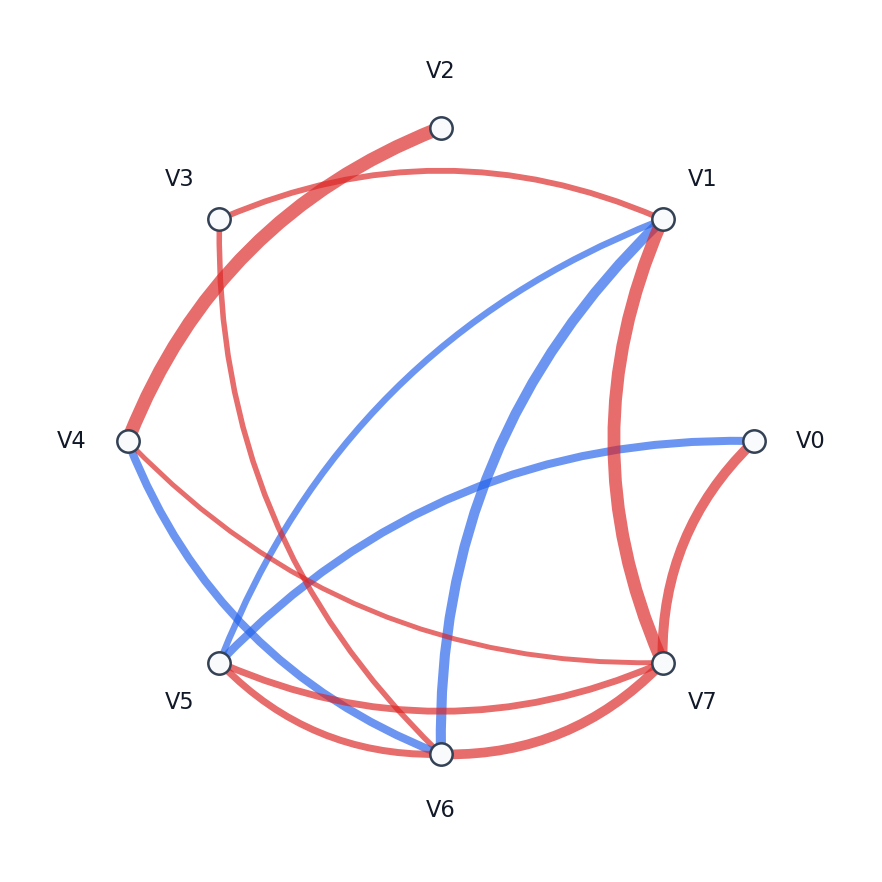
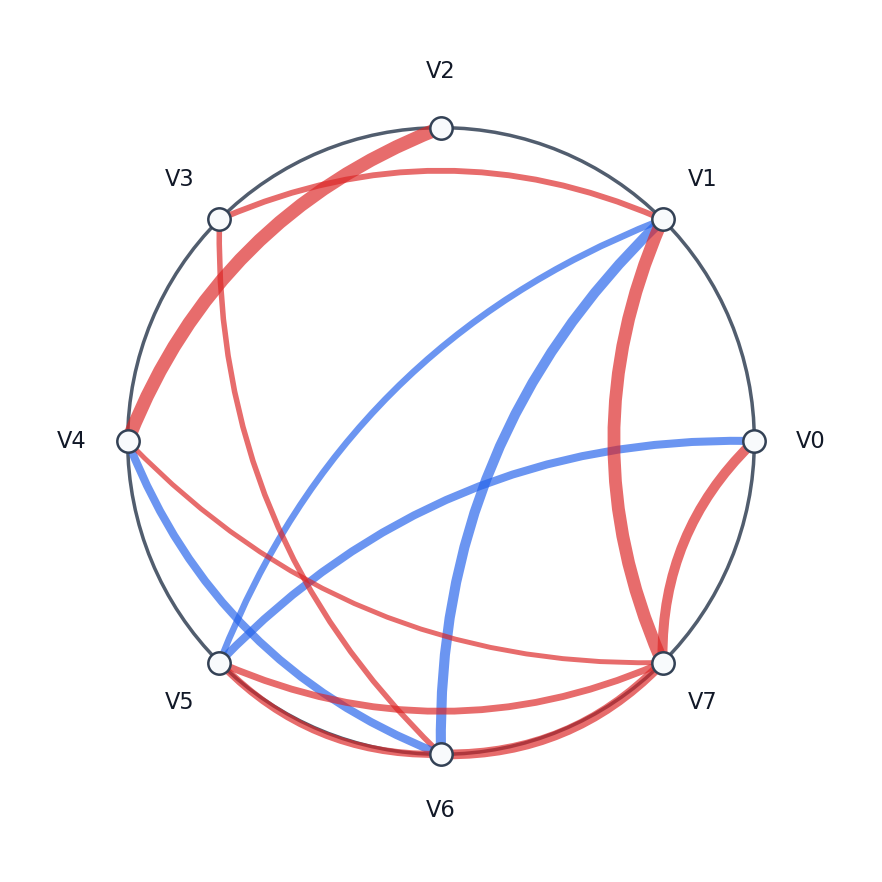
Add covariance graph gallery view

diff --git a/src/covviz/plots/covariance_graph.py b/src/covviz/plots/covariance_graph.py
@@ -1,0 +1,102 @@
+"""Covariance graph visualization inspired by sparse covariance demos."""
+
+from __future__ import annotations
+
+from collections.abc import Sequence
+
+import matplotlib.pyplot as plt
+import networkx as nx
+import numpy as np
+
+
+def plot_covariance_graph(
+    matrix: np.ndarray,
+    *,
+    ax=None,
+    labels: Sequence[str] | None = None,
+    threshold: float = 0.0,
+    layout: str = "spring",
+    seed: int = 42,
+    k: float | None = 0.7,
+    node_size: int = 36,
+    node_color: str = "#2563eb",
+    positive_edge_color: str = "#2563eb",
+    negative_edge_color: str = "#dc2626",
+    edge_width: float = 0.55,
+    alpha_scale: float = 1.0,
+    with_labels: bool = False,
+):
+    """Draw the covariance graph used in covariance-estimation comparisons.
+
+    Unlike ``plot_network``, this view keeps the original notebook style:
+    compact blue nodes, thin signed edges, and edge opacity proportional to the
+    absolute matrix entry.
+    """
+
+    if ax is None:
+        _, ax = plt.subplots()
+
+    labels = labels or [str(i) for i in range(matrix.shape[0])]
+    graph = nx.Graph()
+    graph.add_nodes_from(labels)
+
+    max_weight = _max_offdiag_abs(matrix, threshold)
+    for i in range(matrix.shape[0]):
+        for j in range(i + 1, matrix.shape[1]):
+            weight = float(matrix[i, j])
+            if abs(weight) <= threshold:
+                continue
+            graph.add_edge(
+                labels[i],
+                labels[j],
+                weight=weight,
+                alpha=min(abs(weight) / max_weight * alpha_scale, 1.0),
+            )
+
+    positions = _layout_positions(graph, layout=layout, seed=seed, k=k)
+    nx.draw_networkx_nodes(
+        graph,
+        positions,
+        node_size=node_size,
+        node_color=node_color,
+        linewidths=0,
+        ax=ax,
+    )
+
+    for u, v, data in graph.edges(data=True):
+        nx.draw_networkx_edges(
+            graph,
+            positions,
+            edgelist=[(u, v)],
+            width=edge_width,
+            edge_color=positive_edge_color if data["weight"] >= 0 else negative_edge_color,
+            alpha=data["alpha"],
+            ax=ax,
+        )
+
+    if with_labels:
+        nx.draw_networkx_labels(graph, positions, font_size=8, ax=ax)
+
+    ax.set_axis_off()
+    ax.set_aspect("equal")
+    return ax
+
+
+def _layout_positions(graph: nx.Graph, *, layout: str, seed: int, k: float | None):
+    if layout == "spring":
+        return nx.spring_layout(graph, seed=seed, k=k, weight="weight")
+    if layout == "circular":
+        return nx.circular_layout(graph)
+    if layout == "kamada_kawai":
+        return nx.kamada_kawai_layout(graph, weight="weight")
+    raise ValueError("layout must be one of: 'spring', 'circular', 'kamada_kawai'.")
+
+
+def _max_offdiag_abs(matrix: np.ndarray, threshold: float) -> float:
+    if matrix.shape[0] < 2:
+        return 1.0
+    upper = np.abs(matrix[np.triu_indices_from(matrix, k=1)])
+    upper = upper[upper > threshold]
+    if upper.size == 0:
+        return 1.0
+    return float(upper.max())

diff --git a/src/covviz/plots/chord.py b/src/covviz/plots/chord.py
@@ -6,7 +6,7 @@ from collections.abc import Sequence
 from math import cos, pi, sin
 
 import matplotlib.pyplot as plt
-from matplotlib.patches import FancyArrowPatch
+from matplotlib.patches import Circle, FancyArrowPatch
 import numpy as np
 
 
@@ -21,6 +21,8 @@ def plot_chord(
     positive_color: str = "#2563eb",
     negative_color: str = "#dc2626",
     node_color: str = "#f8fafc",
+    ring_color: str = "#334155",
+    ring_linewidth: float = 1.4,
     label_color: str = "#111827",
     max_linewidth: float = 5.0,
     alpha: float = 0.68,
@@ -34,6 +36,17 @@ def plot_chord(
     labels = labels or [str(i) for i in range(matrix.shape[0])]
     points = _circle_points(len(labels), node_radius)
     max_weight = _max_offdiag_abs(matrix, threshold)
+
+    ring = Circle(
+        (0.0, 0.0),
+        radius=node_radius,
+        fill=False,
+        edgecolor=ring_color,
+        linewidth=ring_linewidth,
+        alpha=0.85,
+        zorder=0,
+    )
+    ax.add_patch(ring)
 
     for i in range(matrix.shape[0]):
         for j in range(i + 1, matrix.shape[1]):

diff --git a/tests/test_covviz.py b/tests/test_covviz.py
@@ -39,6 +39,12 @@ def test_network_plot_accepts_threshold():
     assert fig is axes[0].figure
 
 
+def test_covariance_graph_plot_accepts_threshold():
+    fig, axes = cv.plot(spd(5), kind="covariance_graph", threshold=0.2)
+
+    assert fig is axes[0].figure
+
+
 def test_heatmap_accepts_triangle_and_annotations():
     fig, axes = cv.plot(spd(4), kind="heatmap", triangle="upper", annotate=True, colorbar=False)
 

diff --git a/examples/generate_readme_images.py b/examples/generate_readme_images.py
@@ -33,6 +33,7 @@ def main() -> None:
     plot_specs = [
         ("heatmap", {"triangle": "upper", "annotate": True, "colorbar": False}),
         ("chord", {"threshold": 0.2}),
+        ("covariance_graph", {"threshold": 0.2}),
         ("network", {"threshold": 0.22, "layout": "circular"}),
         ("contour", {"levels": 12, "colorbar": False}),
         ("sparsity", {"threshold": 0.2}),
@@ -43,7 +44,7 @@ def main() -> None:
         fig.savefig(assets / f"{kind}.png", dpi=180, bbox_inches="tight")
         plt.close(fig)
 
-    fig, axes = plt.subplots(1, len(plot_specs), figsize=(17, 3.6))
+    fig, axes = plt.subplots(1, len(plot_specs), figsize=(20, 3.6))
     for ax, (kind, kwargs) in zip(axes, plot_specs):
         cv.plot(matrix, kind=kind, labels=labels, ax=ax, **kwargs)
         ax.set_title(kind)

diff --git a/src/covviz/api.py b/src/covviz/api.py
@@ -8,6 +8,7 @@ from typing import Callable
 from .layout import apply_titles, make_axes
 from .plots.chord import plot_chord
 from .plots.contour import plot_contour
+from .plots.covariance_graph import plot_covariance_graph
 from .plots.heatmap import plot_heatmap
 from .plots.network import plot_network
 from .plots.sparsity import plot_sparsity
@@ -19,6 +20,8 @@ PLOTTERS: dict[str, PlotFunc] = {
     "heatmap": plot_heatmap,
     "chord": plot_chord,
     "contour": plot_contour,
+    "covariance_graph": plot_covariance_graph,
+    "covgraph": plot_covariance_graph,
     "network": plot_network,
     "sparsity": plot_sparsity,
 }

diff --git a/src/covviz/plots/__init__.py b/src/covviz/plots/__init__.py
@@ -2,6 +2,7 @@
 
 from .chord import plot_chord
 from .contour import plot_contour
+from .covariance_graph import plot_covariance_graph
 from .heatmap import plot_heatmap
 from .network import plot_network
 from .sparsity import plot_sparsity
@@ -9,6 +10,7 @@ from .sparsity import plot_sparsity
 __all__ = [
     "plot_chord",
     "plot_contour",
+    "plot_covariance_graph",
     "plot_heatmap",
     "plot_network",
     "plot_sparsity",

diff --git a/examples/basic_usage.py b/examples/basic_usage.py
@@ -16,6 +16,7 @@ matrices = [make_covariance(seed) for seed in range(3)]
 cv.plot(matrices[0], kind="heatmap", labels=labels)
 cv.plot(matrices[0], kind="heatmap", labels=labels, triangle="upper", annotate=True)
 cv.plot(matrices, kind="chord", labels=labels, titles=["A", "B", "C"])
+cv.plot(matrices[0], kind="covariance_graph", labels=labels, threshold=1.0)
 cv.plot(matrices[0], kind="network", labels=labels, threshold=1.0)
 cv.plot(matrices[0], kind="contour", labels=labels, levels=14)
 cv.plot(matrices[0], kind="sparsity", labels=labels, threshold=1.0)

diff --git a/README.md b/README.md
@@ -8,12 +8,16 @@ Matplotlib figure with either one panel or an automatically arranged grid.
 
 ![covviz gallery](assets/gallery.png)
 
-`covviz` currently includes heatmap, chord, network, contour, and sparsity
-views for the same symmetric matrix:
+`covviz` currently includes heatmap, chord, covariance graph, network, contour,
+and sparsity views for the same symmetric matrix:
 
-| Heatmap | Chord | Network | Contour | Sparsity |
-| --- | --- | --- | --- | --- |
-| ![heatmap](assets/heatmap.png) | ![chord](assets/chord.png) | ![network](assets/network.png) | ![contour](assets/contour.png) | ![sparsity](assets/sparsity.png) |
+| Heatmap | Chord | Covariance Graph |
+| --- | --- | --- |
+| ![heatmap](assets/heatmap.png) | ![chord](assets/chord.png) | ![covariance graph](assets/covariance_graph.png) |
+
+| Network | Contour | Sparsity |
+| --- | --- | --- |
+| ![network](assets/network.png) | ![contour](assets/contour.png) | ![sparsity](assets/sparsity.png) |
 
 ## Install
 
@@ -62,6 +66,12 @@ Network view:
 cv.plot(cov, kind="network", threshold=0.25)
 ```
 
+Covariance graph view:
+
+```python
+cv.plot(cov, kind="covariance_graph", threshold=0.25)
+```
+
 Annotated upper-triangle heatmap:
 
 ```python
@@ -80,7 +90,8 @@ cv.plot(cov, kind="sparsity", threshold=0.5)
 The current MVP supports:
 
 - `heatmap`: signed matrix heatmap centered on zero by default.
-- `chord`: circular chord-style view of off-diagonal relationships.
+- `chord`: circular chord-style view of off-diagonal relationships with an outer ring.
+- `covariance_graph`: compact signed covariance network in the original demo style.
 - `network`: weighted undirected network from off-diagonal relationships.
 - `contour`: filled or line contour view of the matrix surface.
 - `sparsity`: thresholded signed sparsity pattern.